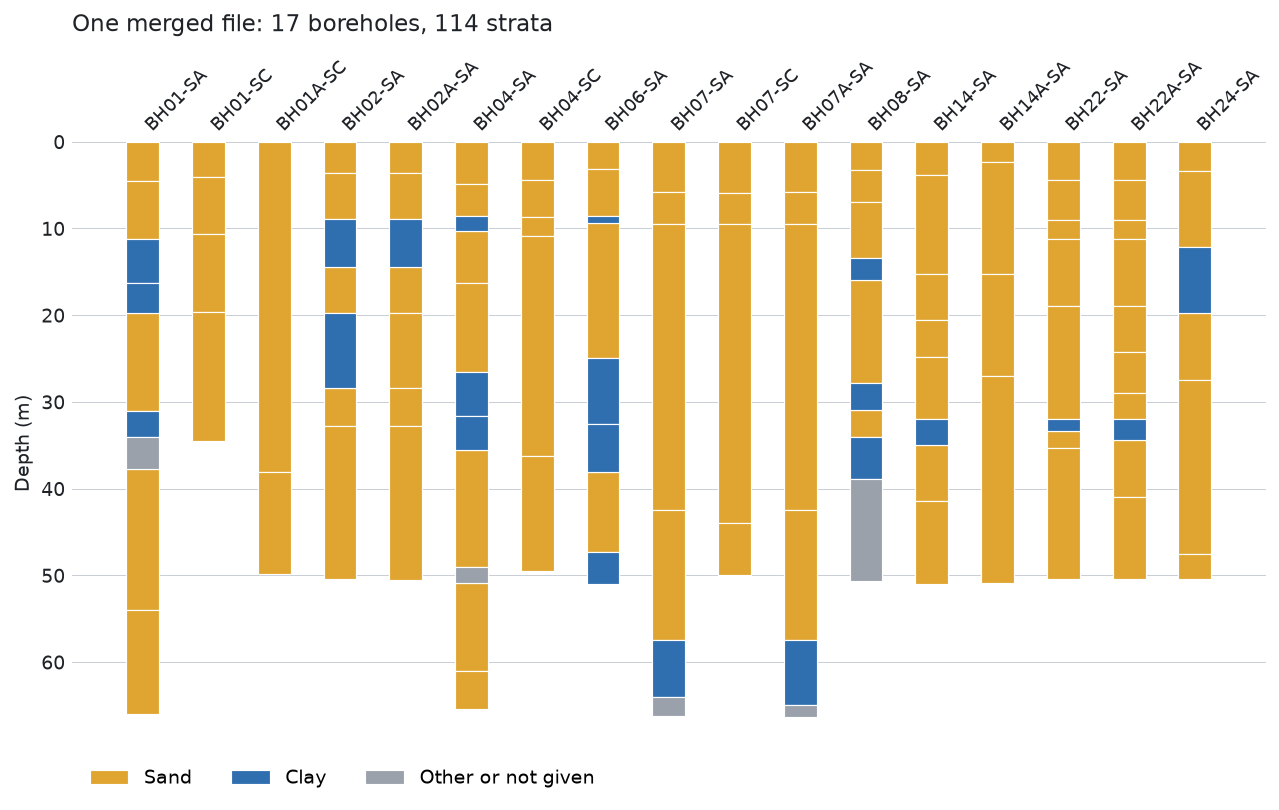
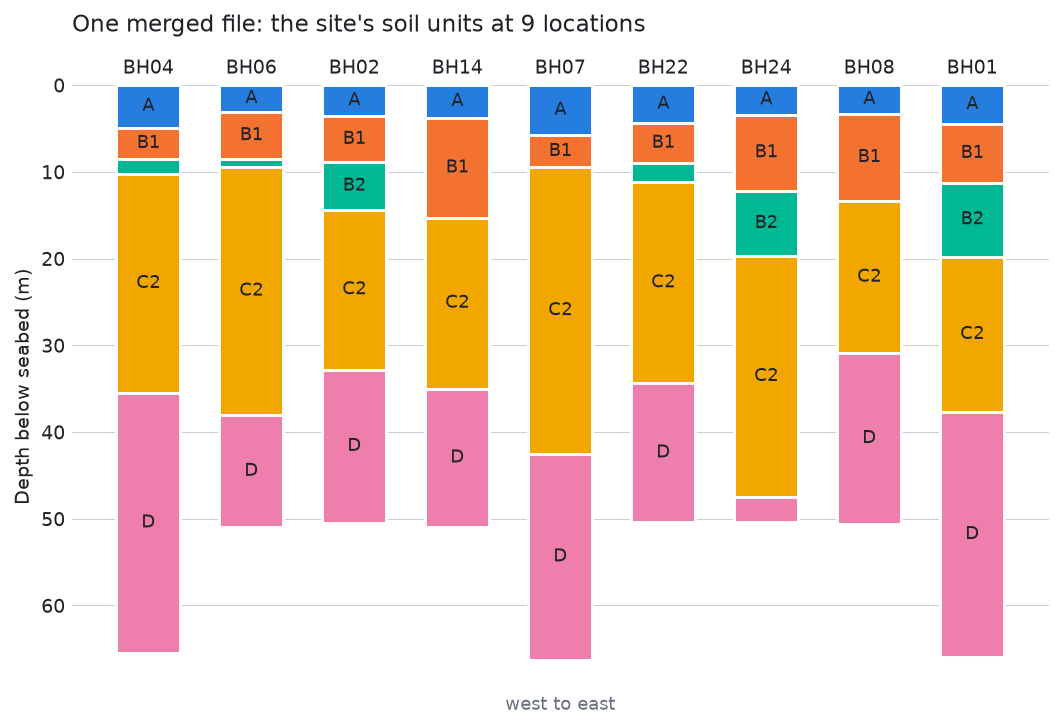
docs(blog): draw post 5's site image by soil unit, one hole per location
The seventeen boreholes sit at nine locations, so drawing all of them
repeated the same ground two or three times, and colouring by soil type
split one unit into many blocks. The image now keeps the deepest hole at
each location, ordered west to east, with one block per soil unit.

diff --git a/web/landing/blog/drafts/figures.py b/web/landing/blog/drafts/figures.py
@@ -58,17 +58,34 @@ IN_STRATUM = """
 """
 
 
-# Each stratum with the principal soil its legend code stands for.
-PRINCIPAL_SOIL = """
-    SELECT g.LOCA_ID, g.GEOL_TOP, g.GEOL_BASE,
-           CASE WHEN a.ABBR_DESC LIKE '%CLAY' THEN 'Clay'
-                WHEN a.ABBR_DESC LIKE '%SAND' THEN 'Sand'
-                ELSE 'Other or not given' END AS soil
-    FROM GEOL g
-    LEFT JOIN ABBR a
-      ON a.ABBR_HDNG = 'GEOL_LEG' AND a.ABBR_CODE = g.GEOL_LEG
+# The site is 17 boreholes at 9 locations: most were drilled two or three times
+# a few metres apart. Drawing all 17 shows the same ground again and again, so
+# this keeps the deepest hole at each location, ordered west to east.
+SITE_UNITS = """
+    WITH hole AS (
+        SELECT LOCA_ID, LOCA_NATE,
+               regexp_extract(LOCA_ID, 'BH([0-9]+)', 1) AS place,
+               row_number() OVER (
+                   PARTITION BY regexp_extract(LOCA_ID, 'BH([0-9]+)', 1)
+                   ORDER BY LOCA_FDEP DESC
+               ) AS deepest_first
+        FROM LOCA
+    )
+    SELECT h.place, h.LOCA_NATE AS easting, g.GEOL_STAT AS unit,
+           g.GEOL_TOP AS top, g.GEOL_BASE AS base
+    FROM hole h
+    JOIN GEOL g USING (LOCA_ID)
+    WHERE h.deepest_first = 1
+    ORDER BY easting, top
 """
-SOILS = {"Sand": "#e0a530", "Clay": "#2f6fb0", "Other or not given": "#9aa1ab"}
+# Fugro's soil units, shallowest first, each with its own colour.
+UNITS = {
+    "A": "#257de0",
+    "B1": "#f47230",
+    "B2": "#00b894",
+    "C2": "#f2a600",
+    "D": "#ee7fac",
+}
 
 
 def save(fig: plt.Figure, post: str, name: str, dpi: int = 140) -> None:
@@ -143,37 +160,40 @@ def post_4(crossrail: laterite.Ags4File) -> None:
 
 
 def post_5(fugro: laterite.Ags4File) -> None:
-    """Every borehole in the merged file, side by side on one depth scale."""
-    strata = pl.DataFrame(fugro.sql(PRINCIPAL_SOIL))
-    holes = sorted(strata["LOCA_ID"].unique().to_list())
-    column = {hole: x for x, hole in enumerate(holes)}
-    fig, ax = plt.subplots(figsize=(11, 5.6))
-    for soil, colour in SOILS.items():
-        rows = strata.filter(pl.col("soil") == soil)
-        ax.bar(
-            [column[hole] for hole in rows["LOCA_ID"]],
-            rows["GEOL_BASE"] - rows["GEOL_TOP"],
-            bottom=rows["GEOL_TOP"],
-            width=0.5,
-            color=colour,
-            edgecolor="white",
-            linewidth=0.6,
-            label=soil,
-        )
+    """The site's soil units at each location, west to east, on one depth scale."""
+    strata = pl.DataFrame(fugro.sql(SITE_UNITS))
+    places = list(dict.fromkeys(strata["place"]))
+    fig, ax = plt.subplots(figsize=(9, 5.6))
+    for x, place in enumerate(places):
+        here = strata.filter(pl.col("place") == place)
+        # One block per run of the same unit: sand over sand in one unit is one block.
+        runs: list[list] = []
+        for unit, top, base in here.select("unit", "top", "base").iter_rows():
+            if runs and runs[-1][0] == unit:
+                runs[-1][2] = base
+            else:
+                runs.append([unit, top, base])
+        for unit, top, base in runs:
+            ax.bar(
+                x, base - top, bottom=top, width=0.62, color=UNITS[unit],
+                edgecolor="white", linewidth=1.5,
+            )  # fmt: skip
+            if base - top >= 3:
+                ax.text(
+                    x, (top + base) / 2, unit, ha="center", va="center",
+                    color=INK, fontsize=9,
+                )  # fmt: skip
     ax.invert_yaxis()
-    ax.set_ylabel("Depth (m)", color=INK)
-    ax.set_xticks(range(len(holes)))
-    names = [hole.removeprefix("HKZ3-") for hole in holes]
-    ax.set_xticklabels(names, rotation=45, ha="left", fontsize=9)
+    ax.set_ylabel("Depth below seabed (m)", color=INK)
+    ax.set_xticks(range(len(places)))
+    ax.set_xticklabels([f"BH{place}" for place in places], fontsize=10)
     ax.xaxis.tick_top()
+    ax.set_xlabel("west to east", color=MUTED, fontsize=9)
     bare(ax)
     ax.spines["bottom"].set_visible(False)
     ax.grid(axis="y", color=RULE, linewidth=0.5)
     ax.set_axisbelow(True)
-    ax.legend(
-        frameon=False, ncols=len(SOILS), loc="lower left", bbox_to_anchor=(0, -0.1)
-    )
-    title = f"One merged file: {len(holes)} boreholes, {strata.height} strata"
+    title = f"One merged file: the site's soil units at {len(places)} locations"
     ax.set_title(title, loc="left", color=INK, fontsize=12, pad=14)
     save(fig, "post-5-merge", "site.png")
 

diff --git a/web/landing/blog/drafts/post-5-merge/article.md b/web/landing/blog/drafts/post-5-merge/article.md
@@ -2,7 +2,7 @@
 
 _Post 5 of 5. Script: `merge_files.py`, beside this draft._
 
-![All seventeen boreholes from the merged file, side by side](site.png)
+![The site's soil units at its nine locations, west to east, from the merged file](site.png)
 
 Fugro's borehole campaign for site III of the Hollandse Kust (zuid) wind farm
 zone is published as seventeen AGS4 files, one per borehole. That is a
@@ -100,6 +100,23 @@ Everything from the earlier posts, across the whole site:
 merged.at("LOCA", ["HKZ3-BH04-SA"]).frames()   # post 1
 merged["LLPL"]                                  # post 2: all 53 results
 merged.sql("SELECT … FROM LLPL l JOIN GEOL g …")  # post 3
+```
+
+## The figure
+
+The seventeen boreholes sit at nine locations: most were drilled two or three
+times a few metres apart. Drawing all seventeen shows the same ground again
+and again, so the figure keeps the deepest hole at each location and orders
+them west to east. That choice is one query on the merged file (`figures.py`
+has it in full):
+
+```sql
+SELECT LOCA_ID,
+       row_number() OVER (
+           PARTITION BY regexp_extract(LOCA_ID, 'BH([0-9]+)', 1)
+           ORDER BY LOCA_FDEP DESC
+       ) AS deepest_first
+FROM LOCA
 ```
 
 ## No file to hand?

diff --git a/web/landing/blog/drafts/post-5-merge/linkedin.md b/web/landing/blog/drafts/post-5-merge/linkedin.md
@@ -1,6 +1,6 @@
 # Post 5: LinkedIn
 
-![All seventeen boreholes from the merged file, side by side](site.png)
+![The site's soil units at its nine locations, west to east, from the merged file](site.png)
 
 ---
 
@@ -25,7 +25,7 @@ GEOL   114 in   114 out
 SAMP   754 in   754 out
 ```
 
-Every row accounted for. The picture is all seventeen boreholes drawn from that one file. From here the whole site is one read: one `.at()` for any hole, one SQL join across all seventeen, one plasticity chart.
+Every row accounted for. The picture is the site's soil units at its nine locations, west to east, drawn from that one file with a single query. From here the whole site is one read: one `.at()` for any hole, one SQL join across all seventeen, one plasticity chart.
 
 That is how the charts in the last two posts were made. The files are Fugro's borehole campaign for the Hollandse Kust (zuid) wind farm zone, published as one AGS file per borehole.
 
